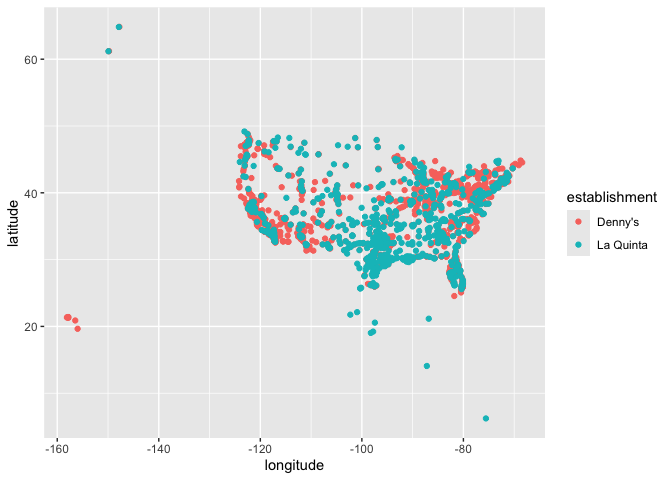
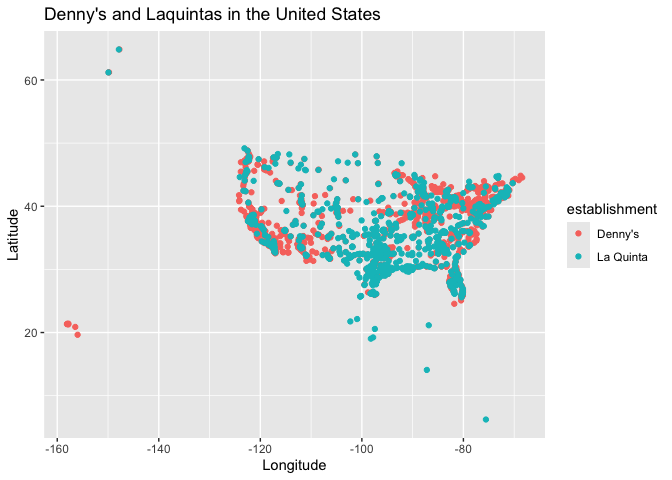
Cleaning up lab 5

diff --git a/lab-05.md b/lab-05.md
@@ -33,22 +33,22 @@ nrow(lq_ak)
 
     ## [1] 2
 
-``` r
-#there are 3 dennys and 2 laquintas in alaska.
-```
+There are 3 Denny’s and 2 Laquinta’s in Alaska.
 
 ### Exercise 2
 
+There are 6 Pairings.
+
 ``` r
-#6 pairings- how tf do you code this though?
+#NEED TO ENTER IN HOW TO CODE THIS 
+#How many ways can you arrange 3 dennys and 2 lqs? 
 ```
 
 ### Exercise 3 and 4
 
 ``` r
 dn_lq_ak <- full_join(dn_ak, lq_ak,
-  by = "state"
-)
+  by = "state")
 ```
 
     ## Warning in full_join(dn_ak, lq_ak, by = "state"): Detected an unexpected many-to-many relationship between `x` and `y`.
@@ -72,14 +72,14 @@ dn_lq_ak
     ## 6 1929 Airport… Fairb… AK    99701       -148.       64.8 4920 Dal… "\nFa… 99709
     ## # ℹ 2 more variables: longitude.y <dbl>, latitude.y <dbl>
 
-``` r
-#there are 6 observations. Each row has the x (alaska dennys) location info and the y (alaska laquinta) location. 
-```
+There are 6 observations, each representing a denny’s and laquinta
+pairing in Alaska.
 
 ### Exercise 5
 
+We use the mutate function!
+
 ``` r
-#we use the mutate function 
 haversine <- function(long1, lat1, long2, lat2, round = 3) {
   # convert to radians
   long1 <- long1 * pi / 180
@@ -116,25 +116,30 @@ dn_lq_ak_mindist <- dn_lq_ak %>%
 ### Exercise 8
 
 ``` r
-#every dennys has a laquinta within six miles 
-#from lab 4
+#From Lab 4, visualization of Dennys and Laquintas throughout the United States.
 dn <- dennys %>%
   mutate(establishment = "Denny's")
+
 lq <- laquinta %>%
   mutate(establishment = "La Quinta")
+
 dn_lq <- bind_rows(dn, lq)
-# made the new combined variable successfully 
+
 ggplot(dn_lq, mapping = aes(
   x = longitude,
   y = latitude,
   color = establishment
 )) +
-  geom_point()
+  geom_point() +
+  labs(title = "Denny's and Laquintas in the United States",
+       x = "Longitude",
+       y = "Latitude")
 ```
 
 ![](lab-05_files/figure-gfm/exercise8-1.png)<!-- -->
 
 ``` r
+# Looking at the map of Alaska only. 
 AKonly <- dn_lq %>%
   filter(state == "AK")
 ggplot(AKonly, mapping = aes(
@@ -142,13 +147,149 @@ ggplot(AKonly, mapping = aes(
   y = latitude,
   color = establishment
 )) +
-  geom_point()
+  geom_point()  +
+  labs(title = "Denny's and Laquintas in Alaska",
+       x = "Longitude",
+       y = "Latitude")
 ```
 
 ![](lab-05_files/figure-gfm/exercise8-2.png)<!-- -->
 
+Every Denny’s has a Laquinta within six miles, according to the minimum
+distance variable created in exercise 7. The average distance is 4.41
+with a standard deviation of 2.09544.
+
+### Exercise 9
+
 ``` r
-#you can see that the dennys and laqintas are clustered together.
+dn_nc <- dennys %>%
+  filter(state == "NC")
+
+lq_nc <- laquinta %>%
+  filter(state == "NC")
+
+dn_lq_nc <- full_join(dn_nc, lq_nc,
+  by = "state")
 ```
 
-Add exercise headings as needed.
+    ## Warning in full_join(dn_nc, lq_nc, by = "state"): Detected an unexpected many-to-many relationship between `x` and `y`.
+    ## ℹ Row 1 of `x` matches multiple rows in `y`.
+    ## ℹ Row 1 of `y` matches multiple rows in `x`.
+    ## ℹ If a many-to-many relationship is expected, set `relationship =
+    ##   "many-to-many"` to silence this warning.
+
+``` r
+dn_lq_nc <- dn_lq_nc %>%
+  mutate(distance = haversine(longitude.x,latitude.x,longitude.y,latitude.y))
+
+dn_lq_nc_mindist <- dn_lq_nc %>%
+  group_by(address.x) %>%
+  summarize(closest = min(distance))
+
+dn_lq_nc_mindist %>%
+  ggplot(aes(x=closest)) +
+  geom_histogram(binwidth = 25) +
+  labs(title ="Distribution of Minimum Distances Between Denny's and Laquinta's",
+       subtitle = "In North Carolina",
+       x= "Miles",
+       y = "Frequency")
+```
+
+![](lab-05_files/figure-gfm/exercise9-1.png)<!-- -->
+
+On average, there is an Laquinta within 65.4443214 miles of a dennys,
+with a standard deviation of 53.423978. This distribution is much more
+spread out than alaska, with some “nearest pairings” close by, and
+others really far apart. The farthest Denny’s to a Laquinta is 187
+miles.
+
+### Exercise 10
+
+``` r
+dn_tx <- dennys %>%
+  filter(state == "TX")
+
+lq_tx <- laquinta %>%
+  filter(state == "TX")
+
+dn_lq_tx <- full_join(dn_tx, lq_tx,
+  by = "state")
+```
+
+    ## Warning in full_join(dn_tx, lq_tx, by = "state"): Detected an unexpected many-to-many relationship between `x` and `y`.
+    ## ℹ Row 1 of `x` matches multiple rows in `y`.
+    ## ℹ Row 1 of `y` matches multiple rows in `x`.
+    ## ℹ If a many-to-many relationship is expected, set `relationship =
+    ##   "many-to-many"` to silence this warning.
+
+``` r
+dn_lq_tx <- dn_lq_tx %>%
+  mutate(distance = haversine(longitude.x,latitude.x,longitude.y,latitude.y))
+
+dn_lq_tx_mindist <- dn_lq_tx %>%
+  group_by(address.x) %>%
+  summarize(closest = min(distance))
+
+dn_lq_tx_mindist %>%
+  ggplot(aes(x=closest)) +
+  geom_histogram(binwidth = 5) +
+   labs(title ="Distribution of Minimum Distances Between Denny's and Laquinta's",
+       subtitle = "In Texas",
+       x= "Miles",
+       y = "Frequency")
+```
+
+![](lab-05_files/figure-gfm/unnamed-chunk-1-1.png)<!-- -->
+
+On average, there is an Laquinta within 5.7918 miles of a dennys, with a
+standard deviation of 8.8307149. This distribution is much more
+condensed than North Carolina, with some “nearest pairings” close by,
+and others really far apart. The farthest Denny’s to a Laquinta is 60
+miles, but many locations are within 1/2 a mile.
+
+### Exercise 11
+
+``` r
+dn_fl <- dennys %>%
+  filter(state == "FL")
+
+lq_fl <- laquinta %>%
+  filter(state == "FL")
+
+dn_lq_fl <- full_join(dn_fl, lq_fl,
+  by = "state")
+```
+
+    ## Warning in full_join(dn_fl, lq_fl, by = "state"): Detected an unexpected many-to-many relationship between `x` and `y`.
+    ## ℹ Row 1 of `x` matches multiple rows in `y`.
+    ## ℹ Row 1 of `y` matches multiple rows in `x`.
+    ## ℹ If a many-to-many relationship is expected, set `relationship =
+    ##   "many-to-many"` to silence this warning.
+
+``` r
+dn_lq_fl <- dn_lq_fl %>%
+  mutate(distance = haversine(longitude.x,latitude.x,longitude.y,latitude.y))
+
+dn_lq_fl_mindist <- dn_lq_fl %>%
+  group_by(address.x) %>%
+  summarize(closest = min(distance))
+
+dn_lq_fl_mindist %>%
+  ggplot(aes(x=closest)) +
+  geom_histogram(binwidth = 5) +
+   labs(title ="Distribution of Minimum Distances Between Denny's and Laquinta's",
+       subtitle = "In Florida",
+       x= "Miles",
+       y = "Frequency")
+```
+
+![](lab-05_files/figure-gfm/exercise%2011-1.png)<!-- -->
+
+On average, there is an Laquinta within 13.4830935 miles of a dennys,
+with a standard deviation of 19.223176. This distribution is much more
+condensed than North Carolina, with some “nearest pairings” close by,
+and others really far apart. The farthest Denny’s to a Laquinta is 176
+miles, but many locations are within a mile or two. The 176 mile one is
+very much an outlier, as is the one that is 90 miles away.
+
+### Exercise 12
